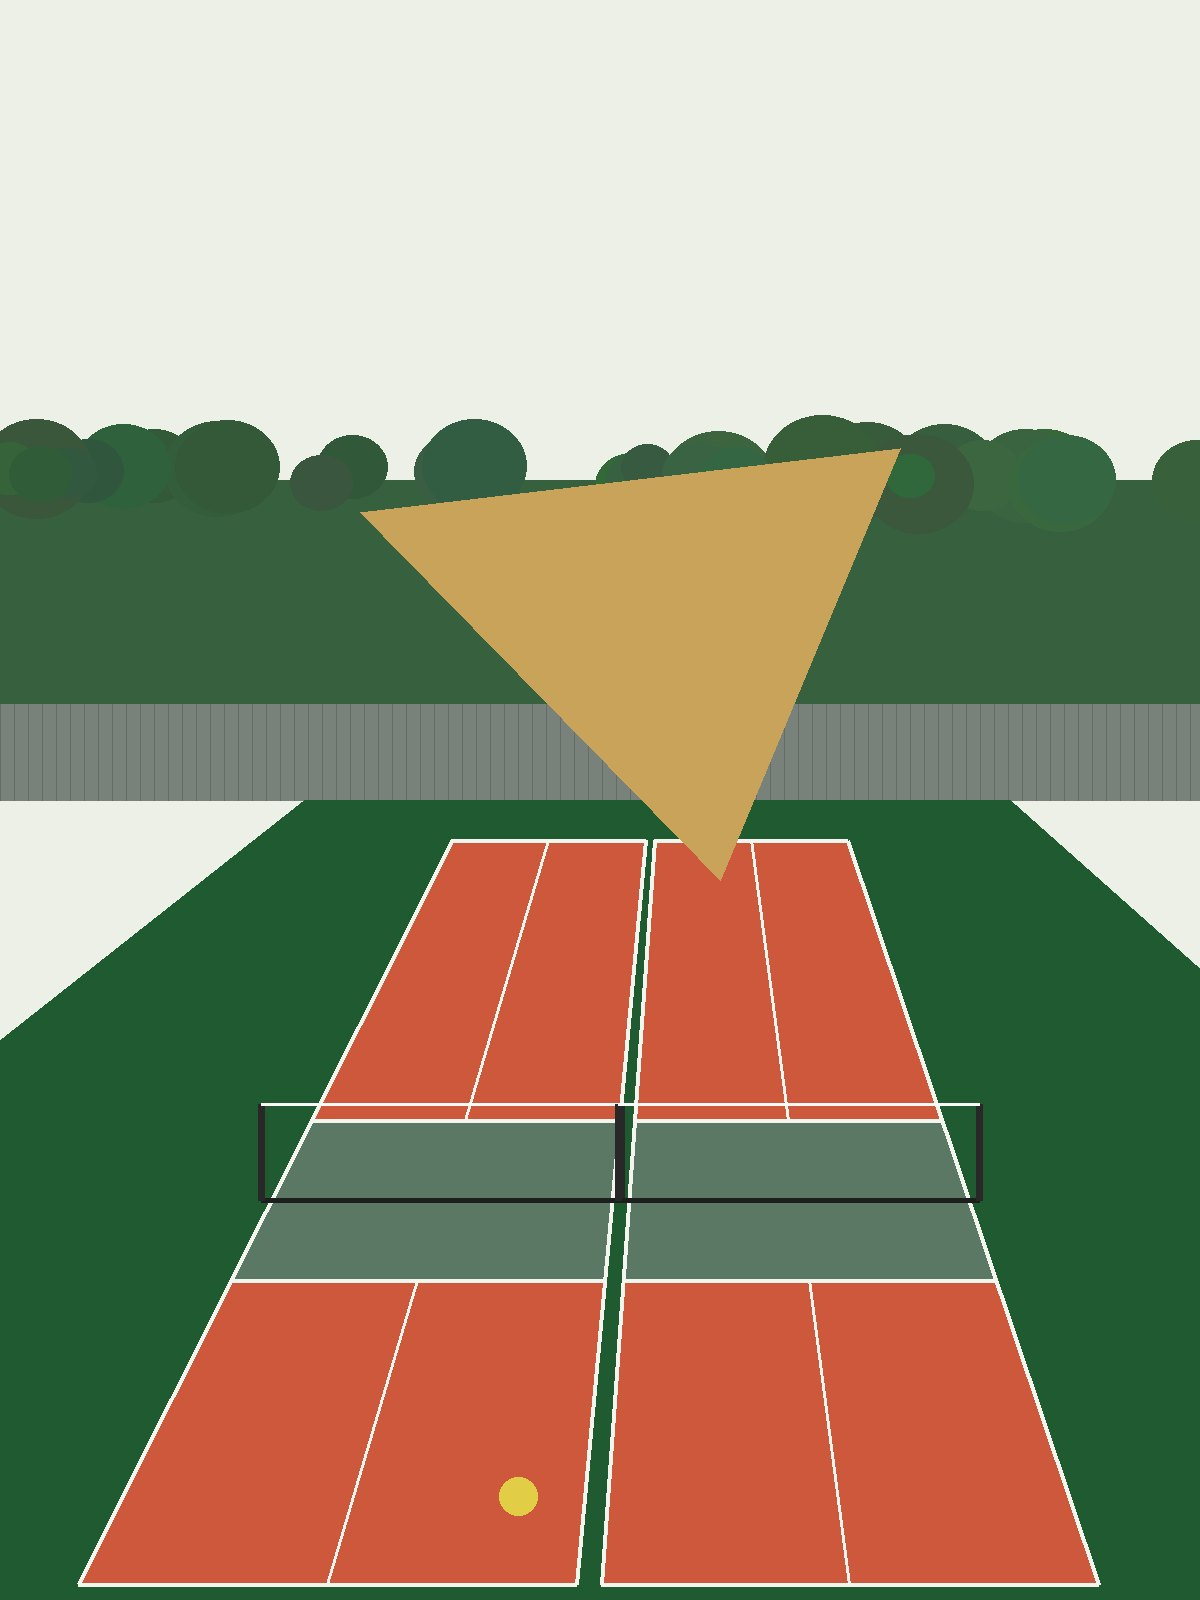
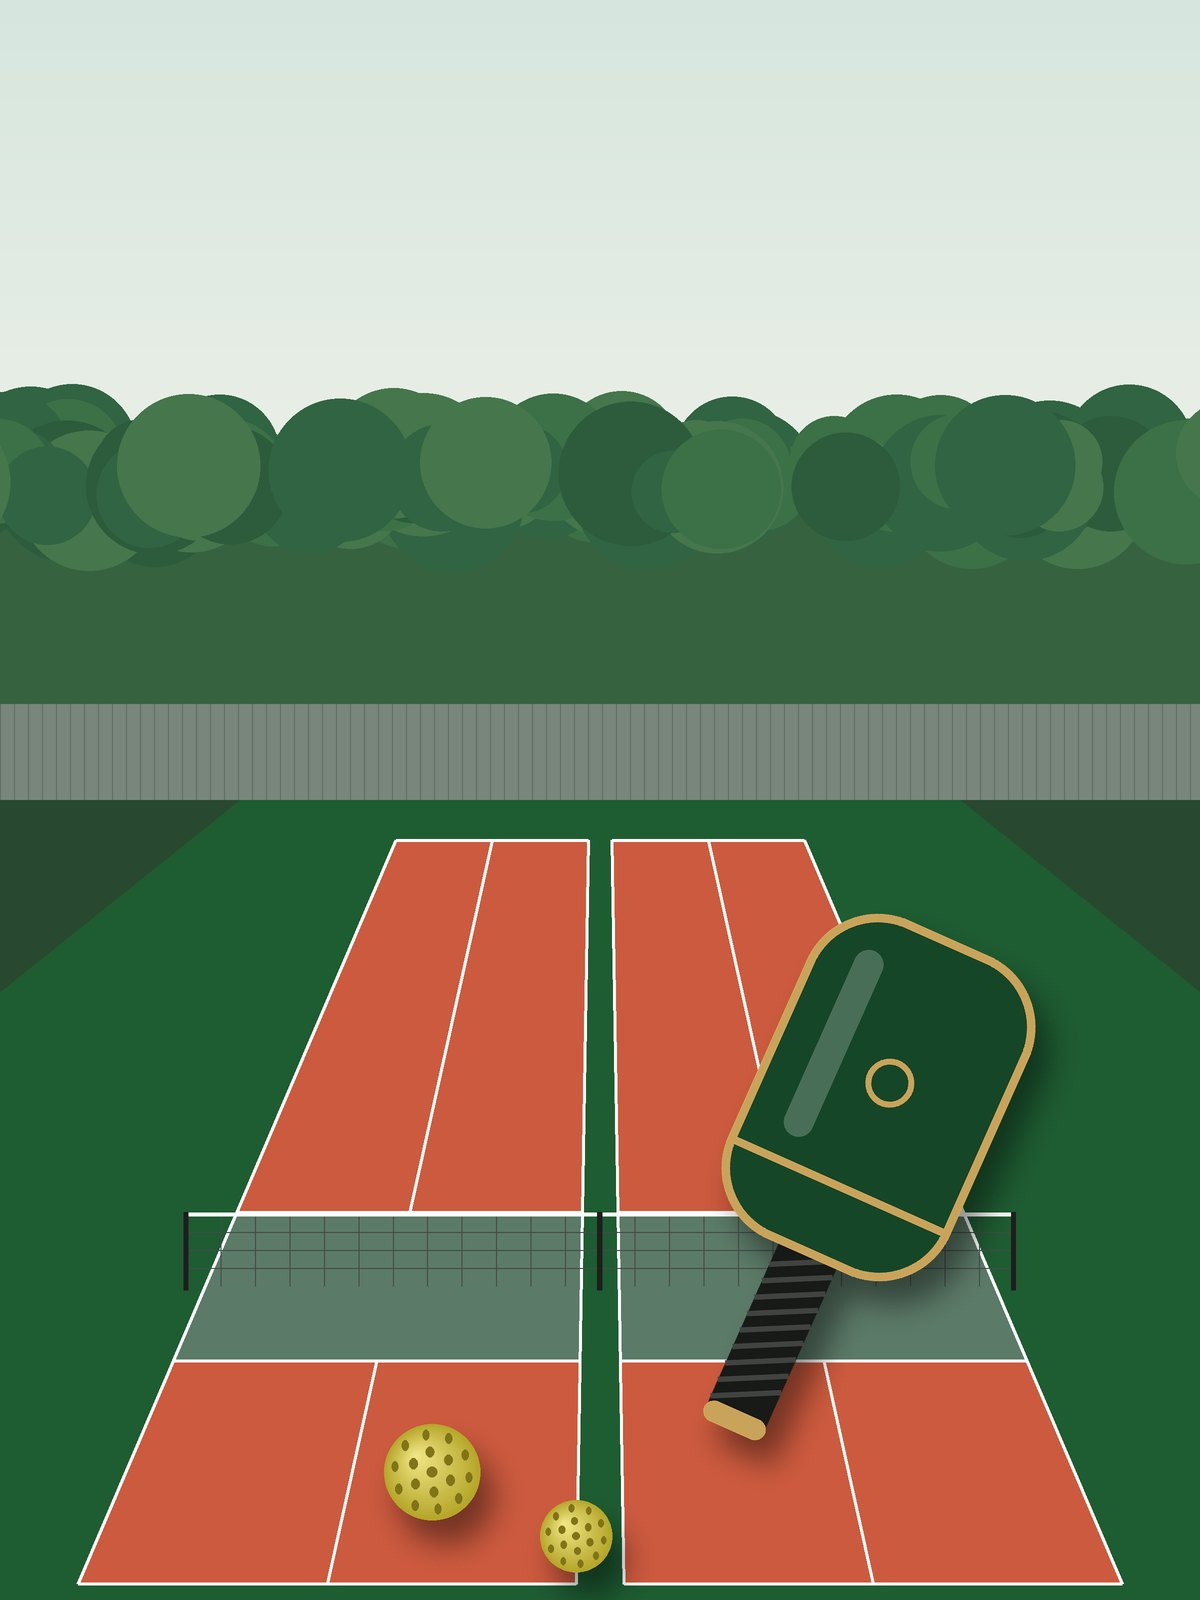
Mobile-responsive layout and new court illustrations
- Stop grid children from forcing the page wider than the viewport
  (booking grid columns now minmax(0,1fr), narrower time column on phones)
- Mobile tweaks for hero, date strip, slots, modals, footer, admin tables
- Centre the splash court outline (preflight makes svg display:block)
- Regenerate court images: drop the stray triangle, add paddles and balls

diff --git a/src/app/globals.css b/src/app/globals.css
@@ -294,3 +294,83 @@ input, select, textarea { font: inherit; }
 .mono { font-family: ui-monospace, SFMono-Regular, Menlo, monospace; font-size: 12.5px; }
 .admin-grid .slot { height: 34px; font-size: 10px; }
 .note { background: var(--ck-gold-bg); border-radius: 10px; padding: 10px 12px; font-size: 13px; margin-bottom: 14px; }
+
+/* ── Responsive ──────────────────────────────────────────────────────────── */
+/* Grid/flex children default to min-width:auto, which let the booking grid and
+   date strip push the whole page wider than the phone screen. */
+:root { --time-col: 88px; }
+html, body { overflow-x: clip; }
+img { max-width: 100%; }
+.hero > *, .booking > *, .admin > *, .date-head > div { min-width: 0; }
+.brand span { overflow: hidden; text-overflow: ellipsis; white-space: nowrap; }
+.brand { min-width: 0; }
+.hero-info h1 { overflow-wrap: anywhere; }
+.site-footer { flex-wrap: wrap; gap: 4px 12px; text-align: center; }
+.splash .court { margin: 0 auto; } /* preflight makes svg display:block, so text-align can't centre it */
+.splash h1 { font-size: clamp(26px, 8vw, 34px); padding: 0 16px; }
+.acc button { text-align: left; gap: 10px; }
+.acc button svg { flex: none; }
+.admin-main { min-width: 0; overflow-x: auto; }
+
+@media (max-width: 899px) {
+  .booking-left { border-right: 0; border-bottom: 1px solid var(--ck-line-2); }
+  .summary { position: static; }
+}
+
+@media (max-width: 759px) {
+  .hero { border-radius: 20px; padding: 10px; }
+  .hero-info { padding: 10px 8px 4px; }
+  .hero-info h1 { font-size: clamp(28px, 8.5vw, 40px); margin: 10px 0 14px; }
+  .hero-fact { margin: 8px 0; font-size: 13px; }
+  .hero-fact .ic { width: 30px; height: 30px; }
+  .hero-main { min-height: 0; aspect-ratio: 4 / 3; }
+  .hero-main img { object-position: center 75%; }
+  .hero-thumbs { gap: 8px; }
+  .show-all { right: 6px; bottom: 6px; padding: 7px; }
+  .show-all-text { display: none; }
+  .meta-row { gap: 8px 16px; margin: 12px 2px 16px; font-size: 13px; }
+  .lightbox .nav-btn { width: 38px; height: 38px; }
+  .lightbox .nav-btn.left { left: 8px; } .lightbox .nav-btn.right { right: 8px; }
+  .lightbox .close { top: 10px; right: 10px; width: 40px; height: 40px; }
+}
+
+@media (max-width: 600px) {
+  :root { --time-col: 62px; }
+  .container { padding: 0 12px; }
+  main.container { padding-top: 14px !important; }
+  .site-header .inner { height: 60px; }
+  .brand { font-size: 15px; gap: 8px; }
+  .brand img { width: 34px; height: 34px; }
+  .rates { padding: 14px; }
+  .rate-row { gap: 10px; padding: 10px 12px; }
+  .booking-left, .booking-right { padding: 16px 12px; }
+  .date-head { gap: 8px; }
+  .date-head h2 { font-size: 19px; }
+  .date-head p { font-size: 12px; }
+  .jump { padding: 8px 10px; }
+  .strip { grid-auto-columns: 46px; margin: 0 -12px; padding: 0 12px 4px; scroll-snap-type: x proximity; }
+  .day-pill { scroll-snap-align: start; }
+  .legend { gap: 6px 12px; font-size: 11.5px; }
+  .grid-head { flex-wrap: wrap; gap: 2px 10px; }
+  .grid { gap: 5px; }
+  .grid .court-h { font-size: 12.5px; }
+  .time-cell { font-size: 11px; }
+  .time-cell small { font-size: 8.5px; }
+  .slot { height: 40px; font-size: 9.5px; letter-spacing: .02em; border-radius: 8px; padding: 0 2px; overflow: hidden; text-overflow: ellipsis; white-space: nowrap; }
+  .band-sep span { font-size: 10.5px; padding: 3px 10px; text-align: center; }
+  .info { padding: 16px 12px; }
+  .overlay { padding: 10px; align-items: start; }
+  .modal { padding: 18px 16px; border-radius: 16px; }
+  .modal h3 { font-size: 19px; padding-right: 24px; }
+  .track form { flex-direction: column; }
+  .site-footer .ver { position: static; }
+  .admin-side { padding: 12px; }
+  .admin-side a { display: inline-block; padding: 7px 10px; }
+  .admin-side form { margin-top: 10px !important; }
+  .admin-main { padding: 14px 12px; }
+  .table { display: block; overflow-x: auto; white-space: nowrap; }
+}
+
+@media (max-width: 400px) {
+  .jump-text { display: none; }
+}

diff --git a/src/components/BookingWidget.tsx b/src/components/BookingWidget.tsx
@@ -81,7 +81,7 @@ export default function BookingWidget({ cfg, today, initial, equipment }: { cfg:
               <p>{longDate(date)}</p>
             </div>
             <label className="jump">
-              <Ic.Calendar size={14} /> Jump to date
+              <Ic.Calendar size={14} /> <span className="jump-text">Jump to date</span>
               <input type="date" aria-label="Jump to date" min={today} max={maxDate} value={date} onChange={(e) => {
                 const v = e.target.value;
                 if (!v || v < today || v > maxDate) return;
@@ -121,7 +121,7 @@ export default function BookingWidget({ cfg, today, initial, equipment }: { cfg:
             <span>{cfg.openingHoursText}</span>
           </div>
 
-          <div className="grid" style={{ gridTemplateColumns: `88px repeat(${grid.courts.length}, 1fr)` }}>
+          <div className="grid" style={{ gridTemplateColumns: `var(--time-col) repeat(${grid.courts.length}, minmax(0, 1fr))` }}>
             <div />
             {grid.courts.map((c) => (
               <div className="court-h" key={c.id}>

diff --git a/src/components/Hero.tsx b/src/components/Hero.tsx
@@ -54,7 +54,7 @@ export default function Hero({ cfg, courtCount }: { cfg: SiteConfig; courtCount:
                     setLb(0);
                   }}
                 >
-                  <Ic.Grid2x2 size={14} /> Show all photos
+                  <Ic.Grid2x2 size={14} /> <span className="show-all-text">Show all photos</span>
                 </button>
               )}
             </div>

diff --git a/scripts/gen-court-images.py b/scripts/gen-court-images.py
@@ -1,0 +1,214 @@
+"""Generates the placeholder court illustrations in public/images/.
+
+Run:  python scripts/gen-court-images.py   (needs Pillow)
+Replace the output with real photos whenever they are available.
+"""
+import math
+import random
+from pathlib import Path
+
+from PIL import Image, ImageDraw, ImageFilter
+
+OUT = Path(__file__).resolve().parent.parent / "public" / "images"
+SS = 2  # supersampling factor for smooth edges
+
+THEMES = {
+    "night": dict(sky=(14, 30, 22), sky2=(20, 44, 30), hill=(20, 46, 30), trees=[(14, 42, 28), (18, 52, 34), (22, 60, 30), (16, 40, 34)],
+                  fence=(58, 72, 62), surround=(26, 72, 40), court=(150, 64, 46), kitchen=(60, 88, 72), lights=True),
+    "day": dict(sky=(214, 230, 222), sky2=(236, 240, 232), hill=(54, 98, 64), trees=[(48, 100, 66), (60, 112, 70), (44, 92, 60), (70, 118, 76)],
+                fence=(120, 134, 124), surround=(30, 92, 50), court=(204, 90, 62), kitchen=(92, 122, 104), lights=False),
+    "dusk": dict(sky=(64, 56, 72), sky2=(206, 150, 102), hill=(34, 62, 44), trees=[(28, 56, 38), (36, 66, 42), (30, 50, 40), (42, 72, 46)],
+                 fence=(84, 92, 86), surround=(28, 80, 44), court=(176, 76, 54), kitchen=(72, 100, 84), lights=True),
+}
+
+
+def lerp(a, b, t):
+    return tuple(int(a[i] + (b[i] - a[i]) * t) for i in range(3))
+
+
+def court_quad(x0, x1, y0, y1, top_l, top_r, bot_l, bot_r):
+    """Point on a perspective quad: u across (0..1), v from far (0) to near (1)."""
+    def p(u, v):
+        lx = top_l + (bot_l - top_l) * v
+        rx = top_r + (bot_r - top_r) * v
+        return (lx + (rx - lx) * u, y0 + (y1 - y0) * v)
+    return p
+
+
+def draw_scene(w, h, theme, rng):
+    t = THEMES[theme]
+    img = Image.new("RGB", (w, h))
+    d = ImageDraw.Draw(img)
+    horizon = int(h * 0.30)
+    fence_top, fence_bot = int(h * 0.44), int(h * 0.50)
+    # sky gradient
+    for y in range(horizon + 40):
+        d.line([(0, y), (w, y)], fill=lerp(t["sky"], t["sky2"], y / (horizon + 40)))
+    # hill + tree line
+    d.rectangle([0, horizon, w, fence_bot], fill=t["hill"])
+    for _ in range(int(w / 22)):
+        r = rng.randint(int(h * 0.025), int(h * 0.045))
+        cx = rng.randint(-r, w + r)
+        cy = horizon + rng.randint(-r // 2, r // 3)
+        d.ellipse([cx - r, cy - r, cx + r, cy + r], fill=rng.choice(t["trees"]))
+    # fence
+    d.rectangle([0, fence_top, w, fence_bot], fill=t["fence"])
+    for x in range(0, w, 14 * SS):
+        d.line([(x, fence_top), (x, fence_bot)], fill=lerp(t["fence"], (0, 0, 0), 0.18), width=SS)
+    # ground beyond the apron, then the surround (playing area apron)
+    d.rectangle([0, fence_bot, w, h], fill=lerp(t["hill"], (0, 0, 0), 0.25))
+    d.polygon([(0, h), (0, int(h * 0.62)), (int(w * 0.2), fence_bot), (int(w * 0.8), fence_bot), (w, int(h * 0.62)), (w, h)], fill=t["surround"])
+
+    # two courts side by side in perspective
+    y0, y1 = int(h * 0.525), int(h * 0.99)
+    for left in (True, False):
+        if left:
+            p = court_quad(0, 0, y0, y1, w * 0.33, w * 0.49, w * 0.065, w * 0.48)
+        else:
+            p = court_quad(0, 0, y0, y1, w * 0.51, w * 0.67, w * 0.52, w * 0.935)
+        quad = [p(0, 0), p(1, 0), p(1, 1), p(0, 1)]
+        d.polygon(quad, fill=t["court"])
+        # kitchen (non-volley zone) either side of the net, net at v=0.6 (perspective-ish)
+        d.polygon([p(0, 0.5), p(1, 0.5), p(1, 0.7), p(0, 0.7)], fill=t["kitchen"])
+        lw = 3 * SS
+        d.line(quad + [quad[0]], fill="white", width=lw)
+        for v in (0.5, 0.7):
+            d.line([p(0, v), p(1, v)], fill="white", width=lw)
+        d.line([p(0.5, 0), p(0.5, 0.5)], fill="white", width=lw)
+        d.line([p(0.5, 0.7), p(0.5, 1)], fill="white", width=lw)
+        # net
+        nl, nr = p(-0.05, 0.6), p(1.05, 0.6)
+        net_h = h * 0.045
+        for i in range(1, 12):
+            x = nl[0] + (nr[0] - nl[0]) * i / 12
+            d.line([(x, nl[1] - net_h), (x, nl[1])], fill=(70, 74, 72), width=SS)
+        for j in range(1, 4):
+            yy = nl[1] - net_h * j / 4
+            d.line([(nl[0], yy), (nr[0], yy)], fill=(70, 74, 72), width=SS)
+        d.line([(nl[0], nl[1] - net_h), (nr[0], nr[1] - net_h)], fill="white", width=4 * SS)
+        for px in (nl[0], nr[0]):
+            d.line([(px, nl[1] + 4 * SS), (px, nl[1] - net_h - 2 * SS)], fill=(30, 30, 30), width=5 * SS)
+
+    if t["lights"]:
+        glow = Image.new("RGBA", (w, h), (0, 0, 0, 0))
+        g = ImageDraw.Draw(glow)
+        for fx in (0.15, 0.5, 0.85):
+            cx, cy, r = int(w * fx), int(h * 0.40), int(w * 0.09)
+            g.ellipse([cx - r, cy - r, cx + r, cy + r], fill=(255, 246, 214, 110))
+        glow = glow.filter(ImageFilter.GaussianBlur(w * 0.03))
+        img = Image.alpha_composite(img.convert("RGBA"), glow).convert("RGB")
+        d = ImageDraw.Draw(img)
+        for fx in (0.15, 0.5, 0.85):
+            cx, cy = int(w * fx), int(h * 0.40)
+            d.rounded_rectangle([cx - 18 * SS, cy - 6 * SS, cx + 18 * SS, cy + 6 * SS], radius=4 * SS, fill=(255, 250, 232))
+    return img
+
+
+def paddle(length, face, edge, grip, angle, dots=True):
+    """A pickleball paddle as an RGBA layer, rotated by angle (degrees)."""
+    fw, fh = int(length * 0.46), int(length * 0.66)
+    hw, hh = int(length * 0.12), int(length * 0.36)
+    W, H = fw + 40, fh + hh + 40
+    lay = Image.new("RGBA", (W, H), (0, 0, 0, 0))
+    d = ImageDraw.Draw(lay)
+    fx0, fy0 = 20, 20
+    r = int(fw * 0.32)
+    # handle (throat + wrapped grip + butt cap)
+    hx0 = fx0 + (fw - hw) // 2
+    d.rounded_rectangle([hx0, fy0 + fh - r // 2, hx0 + hw, fy0 + fh + hh], radius=hw // 3, fill=grip)
+    for k in range(9):
+        yy = fy0 + fh + int(hh * 0.12) + k * int(hh * 0.095)
+        d.line([(hx0, yy), (hx0 + hw, yy - int(hw * 0.5))], fill=lerp(grip, (255, 255, 255), 0.18), width=max(2, hw // 10))
+    d.rounded_rectangle([hx0 - 3, fy0 + fh + hh - hw // 3, hx0 + hw + 3, fy0 + fh + hh], radius=hw // 4, fill=edge)
+    # face with edge guard
+    d.rounded_rectangle([fx0, fy0, fx0 + fw, fy0 + fh], radius=r, fill=edge)
+    g = max(4, fw // 28)
+    d.rounded_rectangle([fx0 + g, fy0 + g, fx0 + fw - g, fy0 + fh - g], radius=r - g, fill=face)
+    # subtle sheen + logo band
+    d.rounded_rectangle([fx0 + fw * 0.18, fy0 + fh * 0.12, fx0 + fw * 0.3, fy0 + fh * 0.7], radius=fw // 16, fill=lerp(face, (255, 255, 255), 0.22))
+    d.line([(fx0 + g, fy0 + fh * 0.78), (fx0 + fw - g, fy0 + fh * 0.78)], fill=edge, width=max(3, fw // 30))
+    if dots:
+        d.ellipse([fx0 + fw * 0.42, fy0 + fh * 0.38, fx0 + fw * 0.62, fy0 + fh * 0.38 + fw * 0.2], outline=edge, width=max(3, fw // 40))
+    return lay.rotate(angle, resample=Image.BICUBIC, expand=True)
+
+
+def ball(diam, color=(232, 214, 62)):
+    """A perforated pickleball with simple shading."""
+    pad = 10
+    lay = Image.new("RGBA", (diam + 2 * pad, diam + 2 * pad), (0, 0, 0, 0))
+    d = ImageDraw.Draw(lay)
+    c = pad + diam / 2
+    R = diam / 2
+    steps = 24
+    for i in range(steps, 0, -1):  # radial shading, light from upper-left
+        rr = R * i / steps
+        off = (R - rr) * 0.35
+        d.ellipse([c - rr - off, c - rr - off, c + rr - off, c + rr - off], fill=lerp(lerp(color, (90, 80, 10), 0.35), lerp(color, (255, 255, 230), 0.45), 1 - i / steps))
+    mask = Image.new("L", lay.size, 0)
+    ImageDraw.Draw(mask).ellipse([c - R, c - R, c + R, c + R], fill=255)
+    holes = ImageDraw.Draw(lay)
+    hole_r = R * 0.11
+    for ring, n in ((0.0, 1), (0.42, 6), (0.78, 10)):
+        for k in range(n):
+            a = 2 * math.pi * k / n + ring
+            hx, hy = c + R * ring * math.cos(a), c + R * ring * math.sin(a)
+            squash = 1 - ring * 0.45  # holes foreshorten toward the rim
+            holes.ellipse([hx - hole_r * squash, hy - hole_r, hx + hole_r * squash, hy + hole_r], fill=lerp(color, (60, 50, 0), 0.6))
+    out = Image.new("RGBA", lay.size, (0, 0, 0, 0))
+    out.paste(lay, (0, 0), mask)
+    return out
+
+
+def with_shadow(layer, blur, offset, alpha=110):
+    pad = 3 * blur + max(abs(offset[0]), abs(offset[1]))
+    size = (layer.width + 2 * pad, layer.height + 2 * pad)
+    a = Image.new("L", size, 0)
+    a.paste(layer.split()[3].point(lambda v: alpha if v > 8 else 0), (pad + offset[0], pad + offset[1]))
+    out = Image.new("RGBA", size, (0, 0, 0, 0))
+    out.putalpha(a.filter(ImageFilter.GaussianBlur(blur)))
+    out.alpha_composite(layer, (pad, pad))
+    return out
+
+
+def place(img, layer, cx, cy):
+    img.alpha_composite(layer, (int(cx - layer.width / 2), int(cy - layer.height / 2)))
+
+
+GREEN, GOLD, CREAM, GRIP = (22, 70, 40), (201, 163, 90), (236, 224, 196), (24, 26, 24)
+EQUIP = {
+    # name: list of (kind, x_frac, y_frac, size_frac_of_width, extra)
+    "crossed": [("paddle", 0.40, 0.80, 0.42, (GREEN, GOLD, 28)), ("paddle", 0.62, 0.80, 0.42, (GOLD, GREEN, -30)),
+                ("ball", 0.79, 0.93, 0.085, None), ("ball", 0.24, 0.95, 0.065, None)],
+    "single": [("paddle", 0.70, 0.82, 0.44, (GREEN, GOLD, -24)), ("ball", 0.36, 0.92, 0.08, None), ("ball", 0.48, 0.96, 0.06, None)],
+    "pair": [("paddle", 0.30, 0.83, 0.40, (GOLD, GREEN, 22)), ("ball", 0.66, 0.90, 0.075, None)],
+}
+
+IMAGES = [
+    ("hero.jpg", 1200, 1600, "night", "crossed", 7),
+    ("court-2.jpg", 1200, 1600, "day", "single", 11),
+    ("court-3.jpg", 1200, 1600, "dusk", "pair", 23),
+    ("court-4.jpg", 1600, 1146, "night", "single", 31),
+    ("court-5.jpg", 1600, 1146, "day", "crossed", 47),
+]
+
+
+def render(name, w, h, theme, layout, seed):
+    rng = random.Random(seed)
+    W, H = w * SS, h * SS
+    img = draw_scene(W, H, theme, rng).convert("RGBA")
+    base = min(W, H * 0.9)
+    for kind, xf, yf, sf, extra in EQUIP[layout]:
+        if kind == "paddle":
+            face, edge, ang = extra
+            lay = paddle(int(base * sf), face, edge, GRIP, ang)
+        else:
+            lay = ball(int(base * sf))
+        place(img, with_shadow(lay, int(base * 0.012), (int(base * 0.012), int(base * 0.02))), W * xf, H * yf - (0 if kind == "ball" else H * 0.08))
+    img = img.convert("RGB").resize((w, h), Image.LANCZOS)
+    img.save(OUT / name, quality=86, optimize=True, progressive=True)
+    print("wrote", name)
+
+
+if __name__ == "__main__":
+    for spec in IMAGES:
+        render(*spec)
